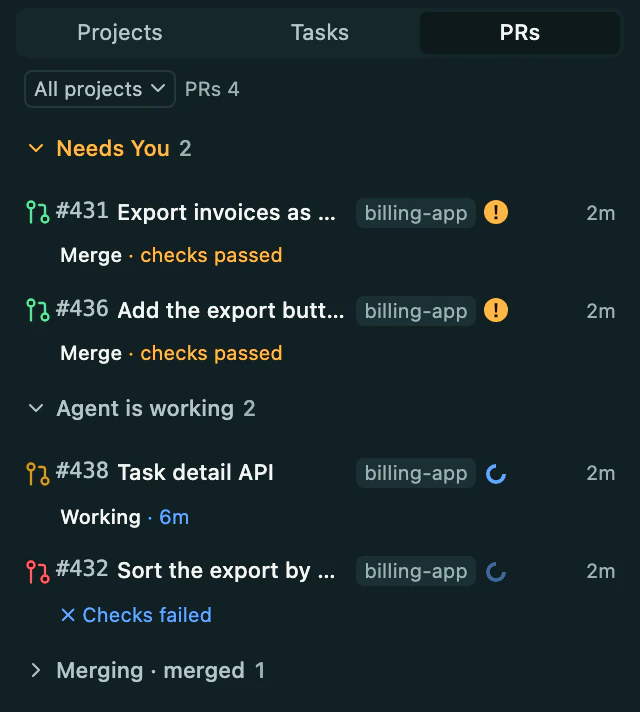
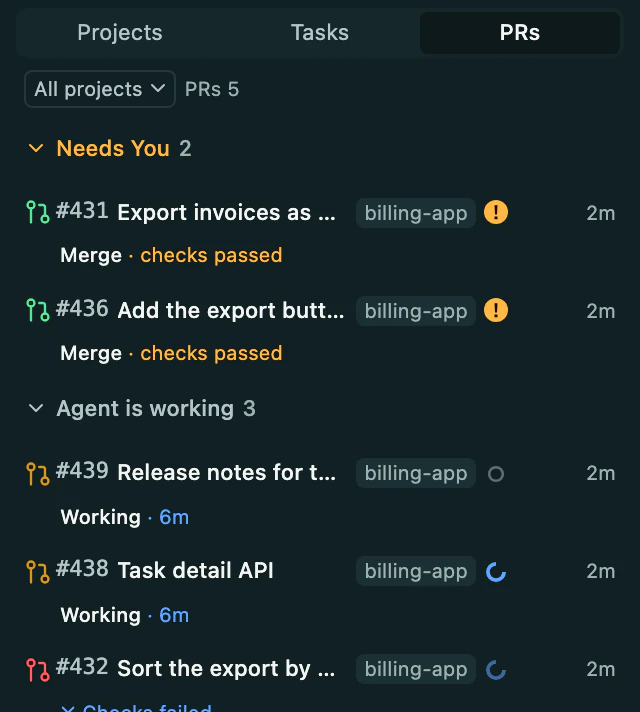
docs: let the landing's Hide AI switch add the read question and the pull requests only Hide AI links

diff --git a/web/src/gallery/landingSceneData.ts b/web/src/gallery/landingSceneData.ts
@@ -87,7 +87,23 @@ const STORY_PULLS: Record<string, [number, string, PrState] | null> = {
   a1c7: null,
   q2: [437, "Fix the test that broke the export", "merged"],
   e1: [438, "Task detail API", "pending"],
+  a2: [439, "Release notes for the CSV export", "pending"],
 };
+
+/**
+ * The pull requests only Hide AI linked: their sessions opened them outside
+ * the window the link reader matches, and the label judged that the session
+ * made them (docs/status-model.md, `created_prs`). With Hide AI off the rows
+ * do not carry them.
+ */
+const LABEL_PULLS = new Set([438, 439]);
+
+/**
+ * The roots whose question only Hide AI found, in the turn's plain text, and
+ * that the operator has read: on, they wait under Revisit; off, text alone
+ * makes no question (docs/status-model.md, With and without Hide AI).
+ */
+const READ_ASKS = ["a2"];
 
 /** One pull request a row holds the duty of, in the shape the fixture's own rows carry. */
 function storyPull(row: AgentRow, [number, title, state]: [number, string, PrState]): AgentRow {
@@ -101,11 +117,11 @@ function storyPull(row: AgentRow, [number, title, state]: [number, string, PrSta
   return { ...row, request, state: { ...row.state, pr: { count: 1, worst: state, pulls: [{ index: 0, state }] } } };
 }
 
-/** Keeps the story's pull requests on a row and drops the fixture's others. */
-function trimPulls(row: AgentRow): AgentRow {
+/** Keeps the story's pull requests on a row and drops the fixture's others, and with Hide AI off the ones only it linked. */
+function trimPulls(row: AgentRow, ai: boolean): AgentRow {
   if (!(row.pane_id in STORY_PULLS)) return row;
   const kept = STORY_PULLS[row.pane_id];
-  if (kept) return storyPull(row, kept);
+  if (kept && (ai || !LABEL_PULLS.has(kept[0]))) return storyPull(row, kept);
   return { ...row, request: row.request ? { ...row.request, pull_requests: [] } : row.request, state: { ...row.state, pr: null } };
 }
 
@@ -113,8 +129,8 @@ function trimPulls(row: AgentRow): AgentRow {
 const STARRED = ["tn1"];
 
 /** Replaces the words of one agent row and leaves everything the core decided as it was. */
-function reword(fixture: AgentRow): AgentRow {
-  const row = trimPulls(fixture);
+function reword(fixture: AgentRow, ai: boolean): AgentRow {
+  const row = trimPulls(fixture, ai);
   const words = AGENT_WORDS[row.pane_id];
   if (!words) return row;
   const request = row.request?.pull_requests?.length && words.pull
@@ -148,7 +164,7 @@ function renameProject(project: Workspace): Workspace {
 }
 
 /** The window's projects and agents for every shot: one machine, the page's story. */
-export function landingSidebar(nowMs: number, expanded: string[], width: number): { rest: SnapshotRest; agents: AgentRow[] } {
+export function landingSidebar(nowMs: number, expanded: string[], width: number, ai = true): { rest: SnapshotRest; agents: AgentRow[] } {
   const base = sidebarScene("reference", { ...REFERENCE_FOLDS, expandedAgents: expanded }, nowMs);
   const navigator = base.rest.navigator!;
   // The one worktree name the core's frozen tiers and states carry is reworded where it sits, and the project's folder is the billing-app's.
@@ -168,8 +184,12 @@ export function landingSidebar(nowMs: number, expanded: string[], width: number)
       workspace_registrations: base.rest.ui_state?.workspace_registrations?.map((registration) => ({ ...registration, pinned: false })),
     },
   });
-  const starred = (row: AgentRow): AgentRow => (STARRED.includes(row.pane_id) ? { ...row, revisit: { starred: true, read_ask: false, since_unix_ms: nowMs - 3 * 3_600_000 } } : row);
-  return { rest, agents: reworded(base.agents.map(reword).map(starred)) };
+  const revisit = (row: AgentRow): AgentRow => {
+    const starred = STARRED.includes(row.pane_id);
+    const readAsk = ai && READ_ASKS.includes(row.pane_id);
+    return starred || readAsk ? { ...row, revisit: { starred, read_ask: readAsk, since_unix_ms: nowMs - 3 * 3_600_000 } } : row;
+  };
+  return { rest, agents: reworded(base.agents.map((row) => revisit(reword(row, ai)))) };
 }
 
 /** What each kind of agent is called when nothing better names it: the provider fallback of Task identity. */
@@ -190,7 +210,7 @@ const NATIVE_QUESTIONS: Record<string, string> = {
  * are the same, since every demand in the story is a native question.
  */
 export function landingPlainSidebar(nowMs: number, width: number): { rest: SnapshotRest; agents: AgentRow[] } {
-  return withoutHideAi(landingSidebar(nowMs, [], width));
+  return withoutHideAi(landingSidebar(nowMs, [], width, false));
 }
 
 /** Any of the page's scenes with Agent summaries off, as `landingPlainSidebar` describes. */
@@ -199,7 +219,9 @@ export function withoutHideAi(scene: { rest: SnapshotRest; agents: AgentRow[] })
     const title = row.agent_kind === "claude" ? row.identity_label : PROVIDERS[row.agent_kind ?? ""] ?? row.identity_label;
     const question = NATIVE_QUESTIONS[row.pane_id];
     const line = question && row.state.line ? { ...row.state.line, text: question } : null;
-    return { ...row, identity_label: title, request: row.request ? { ...row.request, request: null } : row.request, state: { ...row.state, line } };
+    // Only the label judges a turn finished, so an unread stop keeps the plain dot.
+    const mark = row.mark === "done" ? "unread" as const : row.mark;
+    return { ...row, identity_label: title, mark, request: row.request ? { ...row.request, request: null } : row.request, state: { ...row.state, line } };
   });
   const rest: SnapshotRest = { ...scene.rest, status: { ...scene.rest.status, background_ai: { provider: null, providers: [], unavailable_reason: null, enabled: false, chosen: false, agent_summary: false } } as SnapshotRest["status"] };
   return { rest, agents };
@@ -268,8 +290,8 @@ export const HERO_PANES = ["a1", "a3"] as const;
  * tool pinned beside them with the project's 현황. The tasks and prs shots are
  * the same window with the sidebar on another list (`lens`).
  */
-export function landingWorkspace(nowMs: number, width: number, expanded: string[] = [], lens: SidebarLens = "projects"): { rest: SnapshotRest; agents: AgentRow[] } {
-  const scene = landingSidebar(nowMs, expanded, width);
+export function landingWorkspace(nowMs: number, width: number, expanded: string[] = [], lens: SidebarLens = "projects", ai = true): { rest: SnapshotRest; agents: AgentRow[] } {
+  const scene = landingSidebar(nowMs, expanded, width, ai);
   const navigator = scene.rest.navigator!;
   const project = navigator.workspaces!.find((row) => row.id === "hide")!;
   const main = project.checkouts[0]!;
@@ -300,7 +322,7 @@ export function landingWorkspace(nowMs: number, width: number, expanded: string[
   const status = { ...HERO_STATUS, git: { ...HERO_STATUS.git, dots: project.checkouts.slice(0, 6).map((checkout, index) => ({ checkout_id: checkout.id, state: HERO_DOTS[index % HERO_DOTS.length]! })) } };
   const front: Workspace = { ...project, is_git: true, pull_requests: pulls, agent_scope: { ...project.agent_scope, prs, status }, checkouts: project.checkouts.map((checkout) => (checkout === main ? { ...checkout, github, tabs: [titled] } : checkout)) };
   const workspaces = navigator.workspaces!.map((row) => (row === project ? front : row));
-  const devices = navigator.devices?.map((device, index) => (index === 0 ? { ...device, agent_scope: { ...device.agent_scope, tasks: landingTasks(scene.agents, workspaces, nowMs) } } : device));
+  const devices = navigator.devices?.map((device, index) => (index === 0 ? { ...device, agent_scope: { ...device.agent_scope, tasks: landingTasks(scene.agents, workspaces, nowMs, ai) } } : device));
   const rest: SnapshotRest = {
     ...scene.rest,
     ui_state: { ...scene.rest.ui_state!, sidebar_lens: lens },
@@ -377,7 +399,7 @@ const HERO_STATUS = {
   todo: [{ kind: "pr" as const, number: 431 }, { kind: "pr" as const, number: 436 }, { kind: "ask" as const, pane_id: "q1" }],
   todo_total: 3,
   todo_agents: 1,
-  prs: { open: 4, mergeable: 2, failed: 1, review: 0, checking: 1 },
+  prs: { open: 5, mergeable: 2, failed: 1, review: 0, checking: 2 },
   git: { worktrees: 7, behind: 0, changed: 2, unpushed: 1, removable: 1 },
 };
 const HERO_DOTS = ["clean", "changed", "changed", "unpushed", "clean", "removable"] as const;
@@ -389,15 +411,19 @@ const TASK_STATES: Record<string, { state: TaskCardScope["state"]; stage?: TaskC
   a1: { state: "waiting", stage: 2 },
   q2: { state: "done", stage: 2 },
   e1: { state: "working", stage: 1 },
-  a2: { state: "working" },
+  a2: { state: "revisit" },
   tn1: { state: "revisit" },
 };
 
+/** Where a root stands with Hide AI off instead: the release notes' question was only in plain text, so it is not waited on. */
+const TASK_STATES_WITHOUT_AI: typeof TASK_STATES = { a2: { state: "working" } };
+
 /** The device's tasks as the core lists them: each of the story's lineage roots with everything it started, in the checkouts it works in. */
-export function landingTasks(agents: AgentRow[], workspaces: Workspace[], nowMs: number): { cards: TaskCardScope[]; needs_you: number; recency: string } {
+export function landingTasks(agents: AgentRow[], workspaces: Workspace[], nowMs: number, ai = true): { cards: TaskCardScope[]; needs_you: number; recency: string } {
   const where = new Map(workspaces.flatMap((project) => project.checkouts.flatMap((checkout) => checkout.tabs.flatMap((tab) => tab.panes.map((pane) => [pane.id, checkout.id] as const)))));
   const descendants = (pane: string): string[] => agents.filter((row) => row.lineage_parent_pane_id === pane).flatMap((row) => [row.pane_id, ...descendants(row.pane_id)]);
-  const cards = Object.entries(TASK_STATES).flatMap(([root, { state, stage }], index) => {
+  const states = ai ? TASK_STATES : { ...TASK_STATES, ...TASK_STATES_WITHOUT_AI };
+  const cards = Object.entries(states).flatMap(([root, { state, stage }], index) => {
     const checkout = where.get(root);
     if (!checkout) return [];
     const members = [root, ...descendants(root)];

diff --git a/web/src/gallery/LandingScene.tsx b/web/src/gallery/LandingScene.tsx
@@ -123,7 +123,7 @@ export function LandingScene({ shot, theme }: LandingSceneParams) {
       rest.pane_layouts = [{ workspace_id: project.id, tab_id: tab.id!, focused_pane_id: LEAD_PANE, zoomed: false, root: { type: "pane", pane_id: LEAD_PANE } }];
       return { ...none, rest, agents: scene.agents, usage: landingUsage(now), memory: landingMemory(now, "hide") };
     }
-    if (shot === "quiet") return { ...none, ...withoutHideAi(landingWorkspace(now, SIDEBAR_WIDTH.quiet, [], "tasks")), usage: landingUsage(now) };
+    if (shot === "quiet") return { ...none, ...withoutHideAi(landingWorkspace(now, SIDEBAR_WIDTH.quiet, [], "tasks", false)), usage: landingUsage(now) };
     const lens = shot === "tasks" ? "tasks" : shot === "prs" ? "prs" : "projects";
     return { ...none, ...landingWorkspace(now, SIDEBAR_WIDTH[shot], [], lens), usage: landingUsage(now) };
   }, [shot]);
